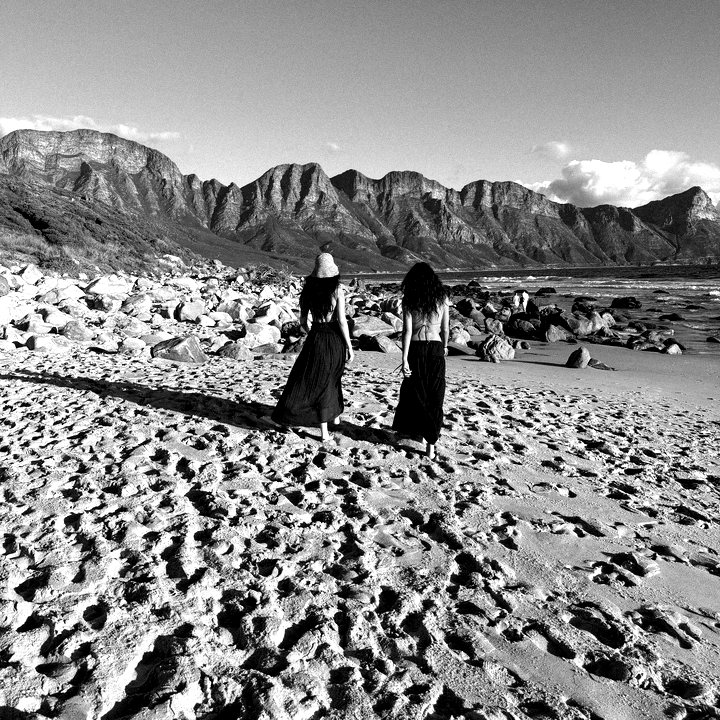
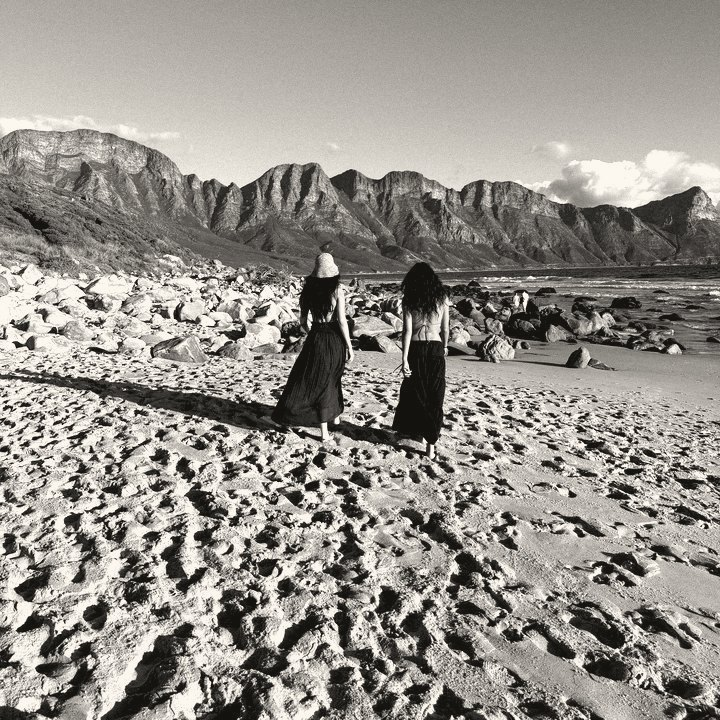
Contact-sheet People section, warmer matching plates, kid photo back on Two Truths, Rankings kid photo at original aspect
Claude-Session: https://claude.ai/code/session_019cHY5kFv81n3dVZ9DcXyGk

diff --git a/things-i-love.html b/things-i-love.html
@@ -57,27 +57,35 @@
   </section>
   <section id="people" aria-label="People (and pets) I love">
     <div class="sh fd"><h2>People (and pets) I love</h2></div>
-    <div class="xsheet" style="height:107vw">
-  <figure class="xf" data-lightbox="assets/img/n/xb/x01.webp" data-sp="-0.012" style="--r:-4.2deg;left:4.4vw;top:3.6vw;width:16.6vw;z-index:3"><img loading="lazy" src="assets/img/n/x/x01.webp" alt="Peri and a friend in a garden by the water" width="560" height="665"></figure>
-  <figure class="xf" data-lightbox="assets/img/n/xb/x02.webp" data-sp="0.02" style="--r:3.1deg;left:23.5vw;top:2.0vw;width:22.3vw;z-index:4"><img loading="lazy" src="assets/img/n/x/x02.webp" alt="Peri with her brother, mom and dad by the sea at sunset" width="665" height="560"></figure>
-  <figure class="xf" data-lightbox="assets/img/n/xb/x19.webp" data-sp="-0.008" style="--r:-2.4deg;left:48.8vw;top:3.7vw;width:18.9vw;z-index:5"><img loading="lazy" src="assets/img/n/x/x19.webp" alt="A schnauzer standing on the lawn" width="665" height="660"></figure>
-  <figure class="xf" data-lightbox="assets/img/n/xb/x03.webp" data-sp="0.025" style="--r:4.6deg;left:68.9vw;top:0.7vw;width:16.6vw;z-index:5"><img loading="lazy" src="assets/img/n/x/x03.webp" alt="Peri and a friend in the back of a car" width="665" height="560"></figure>
-  <figure class="xf" data-lightbox="assets/img/n/xb/x04.webp" data-sp="-0.015" style="--r:-3.3deg;left:6.0vw;top:23.9vw;width:14.4vw;z-index:2"><img loading="lazy" src="assets/img/n/x/x04.webp" alt="Peri with two friends" width="560" height="665"></figure>
-  <figure class="xf" data-lightbox="assets/img/n/xb/x05.webp" data-sp="0.018" style="--r:2.2deg;left:23.2vw;top:23.7vw;width:18.5vw;z-index:3"><img loading="lazy" src="assets/img/n/x/x05.webp" alt="Peri&rsquo;s mom and dad by a lake" width="665" height="560"></figure>
-  <figure class="xf" data-lightbox="assets/img/n/xb/x20.webp" data-sp="-0.02" style="--r:-4.8deg;left:42.9vw;top:26.1vw;width:19.3vw;z-index:2"><img loading="lazy" src="assets/img/n/x/x20.webp" alt="A small tan dog in a pink coat standing over a sleepy schnauzer on a bed" width="665" height="560"></figure>
-  <figure class="xf" data-lightbox="assets/img/n/xb/x06.webp" data-sp="0.01" style="--r:3.6deg;left:67.4vw;top:21.9vw;width:15.4vw;z-index:4"><img loading="lazy" src="assets/img/n/x/x06.webp" alt="Peri and a friend on tiled steps" width="560" height="665"></figure>
-  <figure class="xf" data-lightbox="assets/img/n/xb/x07.webp" data-sp="-0.012" style="--r:-1.8deg;left:4.9vw;top:40.4vw;width:15.5vw;z-index:5"><img loading="lazy" src="assets/img/n/x/x07.webp" alt="Peri and her brother at sunset" width="560" height="665"></figure>
-  <figure class="xf" data-lightbox="assets/img/n/xb/x08.webp" data-sp="0.022" style="--r:2.9deg;left:22.2vw;top:41.7vw;width:14.3vw;z-index:2"><img loading="lazy" src="assets/img/n/x/x08.webp" alt="Peri and a friend, close up" width="560" height="665"></figure>
-  <figure class="xf" data-lightbox="assets/img/n/xb/x15.webp" data-sp="-0.01" style="--r:-3.9deg;left:41.8vw;top:38.5vw;width:15.7vw;z-index:5"><img loading="lazy" src="assets/img/n/x/x15.webp" alt="A small dog squinting in the sun" width="560" height="665"></figure>
-  <figure class="xf" data-lightbox="assets/img/n/xb/x09.webp" data-sp="0.016" style="--r:4.1deg;left:64.9vw;top:38.5vw;width:15.8vw;z-index:3"><img loading="lazy" src="assets/img/n/x/x09.webp" alt="Peri with friends on a boat" width="560" height="665"></figure>
-  <figure class="xf" data-lightbox="assets/img/n/xb/x10.webp" data-sp="-0.022" style="--r:-2.6deg;left:3.1vw;top:59.4vw;width:15.0vw;z-index:4"><img loading="lazy" src="assets/img/n/x/x10.webp" alt="A friend holding a kitten" width="560" height="665"></figure>
-  <figure class="xf" data-lightbox="assets/img/n/xb/x21.webp" data-sp="0.008" style="--r:3.4deg;left:19.7vw;top:59.7vw;width:16.3vw;z-index:3"><img loading="lazy" src="assets/img/n/x/x21.webp" alt="A black schnauzer wrapped in a cream blanket" width="560" height="665"></figure>
-  <figure class="xf" data-lightbox="assets/img/n/xb/x11.webp" data-sp="-0.014" style="--r:-4.4deg;left:39.8vw;top:59.1vw;width:14.7vw;z-index:5"><img loading="lazy" src="assets/img/n/x/x11.webp" alt="Peri and a friend hugging in a garden" width="560" height="665"></figure>
-  <figure class="xf" data-lightbox="assets/img/n/xb/x12.webp" data-sp="0.02" style="--r:1.9deg;left:61.1vw;top:59.2vw;width:17.0vw;z-index:2"><img loading="lazy" src="assets/img/n/x/x12.webp" alt="Peri and a friend by the sea" width="665" height="560"></figure>
-  <figure class="xf" data-lightbox="assets/img/n/xb/x16.webp" data-sp="-0.016" style="--r:-3.1deg;left:6.8vw;top:82.6vw;width:15.0vw;z-index:2"><img loading="lazy" src="assets/img/n/x/x16.webp" alt="Two dogs on a blanket" width="560" height="665"></figure>
-  <figure class="xf" data-lightbox="assets/img/n/xb/x13.webp" data-sp="0.012" style="--r:4.3deg;left:27.1vw;top:80.3vw;width:15.6vw;z-index:3"><img loading="lazy" src="assets/img/n/x/x13.webp" alt="A polaroid held up in front of flowers" width="560" height="665"></figure>
-  <figure class="xf" data-lightbox="assets/img/n/xb/x18.webp" data-sp="-0.02" style="--r:-2.2deg;left:48.7vw;top:82.8vw;width:17.6vw;z-index:4"><img loading="lazy" src="assets/img/n/x/x18.webp" alt="Peri and her mom on a waterfront promenade at sunset, beside a bed of pink flowers" width="665" height="560"></figure>
-  <figure class="xf" data-lightbox="assets/img/n/xb/x14.webp" data-sp="0.01" style="--r:3.7deg;left:68.7vw;top:77.3vw;width:14.1vw;z-index:4"><img loading="lazy" src="assets/img/n/x/x14.webp" alt="Peri with her dog" width="560" height="665"></figure>
+    <div class="csheet">
+      <figure class="crow" data-sp="0.006" style="--r:-0.35deg"><img loading="lazy" src="assets/img/n/sheet/row-a.webp" alt="" width="2200" height="437">
+        <span class="fr" data-lightbox="assets/img/n/b/p01.jpg" data-alt="Peri and a friend in a garden by the water" style="left:4.36%;top:18.99%;width:15.91%;height:61.78%"></span>
+        <span class="fr" data-lightbox="assets/img/n/b/p19.jpg" data-alt="A schnauzer standing on the lawn" style="left:21.09%;top:18.99%;width:15.91%;height:61.78%"></span>
+        <span class="fr" data-lightbox="assets/img/n/b/p02.jpg" data-alt="Peri with her brother, mom and dad by the sea at sunset" style="left:37.82%;top:18.99%;width:15.91%;height:61.78%"></span>
+        <span class="fr" data-lightbox="assets/img/n/b/p03.jpg" data-alt="Peri and a friend in the back of a car" style="left:54.55%;top:18.99%;width:15.91%;height:61.78%"></span>
+        <span class="fr" data-lightbox="assets/img/n/b/p05.jpg" data-alt="Peri&rsquo;s mom and dad by a lake" style="left:71.27%;top:18.99%;width:15.91%;height:61.78%"></span>
+      </figure>
+      <figure class="crow" data-sp="-0.008" style="--r:0.5deg"><img loading="lazy" src="assets/img/n/sheet/row-b.webp" alt="" width="2200" height="437">
+        <span class="fr" data-lightbox="assets/img/n/b/p04.jpg" data-alt="Peri with two friends" style="left:13.64%;top:18.99%;width:15.91%;height:61.78%"></span>
+        <span class="fr" data-lightbox="assets/img/n/b/p15.jpg" data-alt="A small dog squinting in the sun" style="left:30.36%;top:18.99%;width:15.91%;height:61.78%"></span>
+        <span class="fr" data-lightbox="assets/img/n/b/p06.jpg" data-alt="Peri and a friend on tiled steps" style="left:47.09%;top:18.99%;width:15.91%;height:61.78%"></span>
+        <span class="fr" data-lightbox="assets/img/n/b/p12.jpg" data-alt="Peri and a friend by the sea" style="left:63.82%;top:18.99%;width:15.91%;height:61.78%"></span>
+        <span class="fr" data-lightbox="assets/img/n/b/p21.jpg" data-alt="A black schnauzer wrapped in a cream blanket" style="left:80.55%;top:18.99%;width:15.91%;height:61.78%"></span>
+      </figure>
+      <figure class="crow" data-sp="0.01" style="--r:-0.6deg"><img loading="lazy" src="assets/img/n/sheet/row-c.webp" alt="" width="2200" height="437">
+        <span class="fr" data-lightbox="assets/img/n/b/p07.jpg" data-alt="Peri and her brother at sunset" style="left:6.82%;top:18.99%;width:15.91%;height:61.78%"></span>
+        <span class="fr" data-lightbox="assets/img/n/b/p20.jpg" data-alt="A small tan dog in a pink coat standing over a sleepy schnauzer on a bed" style="left:23.55%;top:18.99%;width:15.91%;height:61.78%"></span>
+        <span class="fr" data-lightbox="assets/img/n/b/p08.jpg" data-alt="Peri and a friend, close up" style="left:40.27%;top:18.99%;width:15.91%;height:61.78%"></span>
+        <span class="fr" data-lightbox="assets/img/n/b/p09.jpg" data-alt="Peri with friends on a boat" style="left:57.00%;top:18.99%;width:15.91%;height:61.78%"></span>
+        <span class="fr" data-lightbox="assets/img/n/b/p10.jpg" data-alt="A friend holding a kitten" style="left:73.73%;top:18.99%;width:15.91%;height:61.78%"></span>
+      </figure>
+      <figure class="crow" data-sp="-0.006" style="--r:0.3deg"><img loading="lazy" src="assets/img/n/sheet/row-d.webp" alt="" width="2200" height="437">
+        <span class="fr" data-lightbox="assets/img/n/b/p11.jpg" data-alt="Peri and a friend hugging in a garden" style="left:2.91%;top:18.99%;width:15.91%;height:61.78%"></span>
+        <span class="fr" data-lightbox="assets/img/n/b/p16.jpg" data-alt="Two dogs on a blanket" style="left:19.64%;top:18.99%;width:15.91%;height:61.78%"></span>
+        <span class="fr" data-lightbox="assets/img/n/b/p13.jpg" data-alt="A polaroid held up in front of flowers" style="left:36.36%;top:18.99%;width:15.91%;height:61.78%"></span>
+        <span class="fr" data-lightbox="assets/img/n/b/p18.jpg" data-alt="Peri and her mom on a waterfront promenade at sunset, beside a bed of pink flowers" style="left:53.09%;top:18.99%;width:15.91%;height:61.78%"></span>
+        <span class="fr" data-lightbox="assets/img/n/b/p14.jpg" data-alt="Peri with her dog" style="left:69.82%;top:18.99%;width:15.91%;height:61.78%"></span>
+      </figure>
     </div>
   </section>
   <section class="hello">

diff --git a/assets/inner.css b/assets/inner.css
@@ -81,13 +81,14 @@ header a[aria-current]{background:none}
 .loves-list a{color:var(--red);text-decoration:underline;text-underline-offset:.22em}
 .sh{padding:6vh 6vw 7vh;border-top:1px solid var(--line);margin:0 6vw;padding-left:0;padding-right:0}
 .sh h2{font:400 clamp(2.4rem,5.6vw,6.4rem)/1 var(--serif);letter-spacing:-.025em}
-.xsheet{position:relative;margin:0 6vw;padding:0 0 4vw}
-.xf{position:absolute;margin:0;cursor:zoom-in;transform:translateY(var(--py,0)) rotate(var(--r,0deg));transition:transform .5s var(--e),filter .5s;filter:drop-shadow(0 1px 1px rgba(30,18,8,.38)) drop-shadow(.25rem .7rem .8rem rgba(30,18,8,.17))}
-.xf img{display:block;width:100%;height:auto}
-.xf:hover,.xf:focus-visible{z-index:20!important;transform:translateY(var(--py,0)) rotate(0deg) scale(1.07);filter:drop-shadow(0 1px 1px rgba(30,18,8,.3)) drop-shadow(.4rem 1.4rem 1.6rem rgba(30,18,8,.26))}
+.csheet{margin:0 2vw;padding:1vw 0 5vw;display:flex;flex-direction:column;gap:.2vw}
+.crow{position:relative;margin:0;transform:translateY(var(--py,0)) rotate(var(--r,0deg));filter:drop-shadow(0 1px 1px rgba(30,18,8,.4)) drop-shadow(.2rem .6rem .7rem rgba(30,18,8,.18))}
+.crow img{display:block;width:100%;height:auto}
+.crow .fr{position:absolute;cursor:zoom-in;transition:background .35s,box-shadow .35s}
+.crow .fr:hover,.crow .fr:focus-visible{background:rgba(255,246,226,.14);box-shadow:0 0 0 1px rgba(255,236,200,.55) inset;outline:none}
 /* rankings */
 .ranks{display:grid;grid-template-columns:22vw 1fr;gap:0 5vw;padding:0 6vw 10vh}
-.ranks .plates figure{width:68%}.ranks .plates figure+figure{margin-top:2rem;margin-left:24%}
+.ranks .plates figure{width:68%}.ranks .plates figure+figure{margin-top:2rem;margin-left:34%;width:54%}
 .rank-list{list-style:none;max-width:36rem}
 .ranks .plates{position:sticky;top:12vh;align-self:start}
 .plot{grid-column:2;margin-top:14vh}
@@ -121,7 +122,7 @@ header{position:absolute;color:inherit;mix-blend-mode:normal;padding:1.4rem 16px
 .intro{width:auto;margin:0 0 2rem}.pf{height:auto;width:100%;aspect-ratio:var(--ar);margin:0 0 2.4rem}.pf .no{display:none}.pf img{transform:none}.hud,.bar{display:none}.prail{height:auto!important}
 .loves{grid-template-columns:1fr;padding:0 16px 5rem}.plates{display:grid;grid-template-columns:1fr 1fr 1fr;gap:10px;margin-bottom:2.4rem}.plates figure,.plates figure+figure,.plates figure:nth-child(n){width:auto;margin:0}
 .loves-list{columns:1}.sh{margin:0 16px}
-.xsheet{margin:0 16px;height:auto!important;padding:1.5rem 0 3rem;display:grid;grid-template-columns:1fr 1fr;gap:5vw 4vw;align-items:start}.xf{position:static;width:auto!important;transform:rotate(var(--r))!important}.xf:nth-child(n){margin-top:0}.xf:nth-child(even){margin-top:8vw}
+.csheet{margin:0;padding:.5rem 0 3rem;overflow-x:auto;-webkit-overflow-scrolling:touch;scrollbar-width:none}.csheet::-webkit-scrollbar{display:none}.crow{width:235vw;flex:none;margin-left:0;transform:rotate(var(--r))!important}.crow+.crow{margin-top:-4vw}
 .ranks{grid-template-columns:1fr;padding:0 16px 4rem}.ranks .plates{position:static;grid-template-columns:1fr 1fr;max-width:20rem}.plot{grid-column:1;margin-top:5rem}
 .hello{padding-top:10vh}.hello .hi{font-size:4.8rem}.hello .links{gap:1.4rem}.colophon{padding:4rem 16px 2rem}
 }

diff --git a/assets/inner.js b/assets/inner.js
@@ -19,13 +19,13 @@ else{
 var lb=document.querySelector('.lb');
 if(lb){var li=lb.querySelector('img'),lbtn=lb.querySelector('button'),opener=null;
  var close=function(){lb.classList.remove('open');if(opener)opener.focus()};
- document.querySelectorAll('[data-lightbox]').forEach(function(f){f.tabIndex=0;f.setAttribute('role','button');f.setAttribute('aria-label','Open photo');
-  var open=function(){opener=f;var im=f.querySelector('img');li.alt=im?im.alt:'';li.src=f.getAttribute('data-lightbox');lb.classList.add('open');lbtn.focus()};
+ document.querySelectorAll('[data-lightbox]').forEach(function(f){f.tabIndex=0;f.setAttribute('role','button');f.setAttribute('aria-label',f.getAttribute('data-alt')||'Open photo');
+  var open=function(){opener=f;var im=f.querySelector('img');li.alt=f.getAttribute('data-alt')||(im?im.alt:'');li.src=f.getAttribute('data-lightbox');lb.classList.add('open');lbtn.focus()};
   f.addEventListener('click',open);f.addEventListener('keydown',function(e){if(e.key==='Enter'||e.key===' '){e.preventDefault();open()}})});
  lb.addEventListener('click',close);document.addEventListener('keydown',function(e){if(e.key==='Escape'&&lb.classList.contains('open'))close()})}
 
 /* the scattered film frames drift a little as you scroll */
-var xs=document.querySelector('.xsheet'),xf=[].slice.call(document.querySelectorAll('.xf'));
+var xs=document.querySelector('.csheet'),xf=[].slice.call(document.querySelectorAll('.crow'));
 if(xs&&!rm&&!small){var t=0;function go(){t=0;var b=xs.getBoundingClientRect(),p=b.top+b.height/2-innerHeight/2;xf.forEach(function(e){e.style.setProperty('--py',(p*parseFloat(e.dataset.sp)).toFixed(1)+'px')})}
  addEventListener('scroll',function(){if(!t)t=requestAnimationFrame(go)},{passive:true});go()}
 

diff --git a/index.html b/index.html
@@ -80,7 +80,6 @@ header nav a{background:linear-gradient(currentColor,currentColor) 0 100%/0 1px 
 /* 2: two truths and a lie, marked up in red pen like a proof */
 .s2{display:block;min-height:100svh;padding:12vh 6vw 9vh;position:relative}
 .s2 .kid{position:absolute;left:6vw;top:46vh;width:11vw;aspect-ratio:1200/1749}
-@media (min-width:761px){.s2 .kid{transition:opacity .9s var(--e)}.s2:not(.rev) .kid{opacity:0}}
 .s2 .g{margin-left:17vw;display:grid;grid-template-columns:repeat(3,minmax(0,1fr));column-gap:3vw;align-items:start}
 .s2 .g>h2,.s2 .g>.ask{grid-column:1/-1}.s2 ol{display:contents}.s2 li{grid-row:3}.s2 li:nth-child(1){grid-column:1}.s2 li:nth-child(2){grid-column:2;margin-top:7vh}.s2 li:nth-child(3){grid-column:3;margin-top:14vh}
 .s2 h2{font:400 clamp(2.9rem,5.4vw,5.6rem)/1 var(--serif);letter-spacing:-.02em;text-transform:none;margin-bottom:.9rem}

diff --git a/ranking.html b/ranking.html
@@ -21,7 +21,7 @@
   <p class="stand fd">In descending order.</p>
   </section>
   <section class="ranks">
-    <div class="plates" aria-hidden="true"><figure class="rv"><img src="assets/img/n/out-4.jpg" alt="" loading="lazy"></figure><figure class="rv"><img src="assets/img/n/kid-2.jpg" alt="" loading="lazy"></figure></div>
+    <div class="plates" aria-hidden="true"><figure class="rv"><img src="assets/img/n/kid-3.jpg" alt="" loading="lazy"></figure><figure class="rv"><img src="assets/img/n/out-4.jpg" alt="" loading="lazy"></figure></div>
     <ol class="rank-list stag">
       <li style="--i:1"><span class="pos type">01</span><span class="age">0 years old</span></li>
       <li style="--i:2"><span class="pos type">02</span><span class="age">4 years old</span></li>
